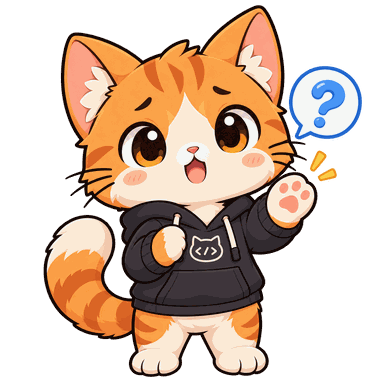
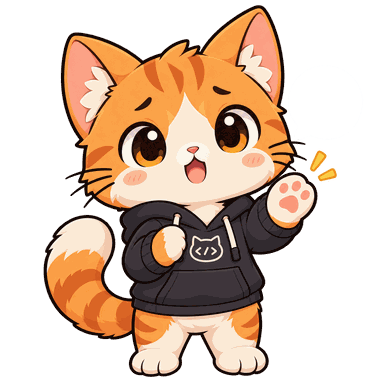
feat: 三个缺的状态不用新素材也能补上
你没额度生成新图了，我又不会生成图像——但缺的那几个里有三个根本不需要生成。

**问号从贴图里抠出来了。** `waiting.png` 里那个问号气泡是一个跟猫身完全不相连的
连通域（46095 像素），抠掉之后干净得没有一点残边。剩下的「举爪」姿势正好就是机器人
在这个状态的动作。于是：

- 符号改由宿主层画（`#mark`，跟灯和角标同一层）
- 「等你回答」画问号，「等你授权」画警告三角
- 一张图服务两个状态

这修的是一个真的错：之前两个状态共用同一张图，猫在请你批准 `rm -rf` 的时候顶着一个
问号——问号的意思是「我不确定」，授权的意思是「你来定」。机器人一直是分开画的（举手
vs 歪头加问号），猫这边之前做不到，是因为一张图在干两份活。

**工具被打断**同理：`working` 加宿主画的警告三角。机器人在这个状态也就是显示器转黄、
人继续干活，同一个语汇，不值得为一个 2.6 秒的瞬态单独生成一张图。用同一个三角形表示
「等授权」和「工具被打断」是跟机器人一致的——它的显示器在这两种情况下显示同一个警告，
靠**姿势**区分。

**刚干完一轮**没有贴图，而且不该有：它是 1.6 秒的瞬态，一张静止图说不出「刚刚」。
改成让渲染器把 `idle` 那张图弹一下——脚不动，头抬起约 2.9pt，0.12 秒到顶，1.2 秒
衰减干净。跟机器人的「点两下头」一个量级，故意做得小。

踩了一个 GLSL 的坑：`smoothstep(1.0, 0.25, p.y)` 在 GLSL ES 里 edge0 >= edge1 是
未定义行为，不报错，直接让整个弹跳变成零。改成 `1.0 - smoothstep(0.25, 1.0, p.y)`。
查这个花的时间比写它长——两次相隔 0.15 秒的快照像素级相同，一开始以为是分支没走到，
把系数改成常数 1.0 才确认分支是通的、问题在 smoothstep。

现在 11 个状态里 7 个有自己的表现（原来 5 个），剩下 4 个 busy 变体共用一张图但灯分得
开。真正还缺素材的就那四个。

**顺带：符号从此不用画进贴图。** 以后加一个状态多半只要加一个符号，不用重新生成整只
猫。这是这次最值钱的收获。

Changed region(s): [[0.75, 0.1562, 0.9688, 0.375]]

diff --git a/Sources/ClaudePetCore/PetSkin.swift b/Sources/ClaudePetCore/PetSkin.swift
@@ -37,9 +37,34 @@ public enum PetSkin: String, Sendable, Equatable, CaseIterable {
 /// place whichever skin is loaded. That is what keeps the cat honest: it loses
 /// poses, not signals, and the two states with no picture still say so.
 public enum CatSkin {
-    /// The five pictures the kit ships.
+    /// The five pictures the kit ships, plus one the renderer makes from an
+    /// existing picture.
     public enum Pose: String, Sendable, Equatable, CaseIterable {
         case idle, working, waiting, sleeping, urgent
+        /// The `idle` picture with a short bob, for the 1.6s after a turn ends.
+        /// Not a sixth texture — there is no artwork for a finished turn, and a
+        /// still picture cannot say "just now" anyway. See cat-pet.js.
+        case finished
+    }
+
+    /// A glyph the host draws beside the figure.
+    ///
+    /// These used to be painted into the textures, which is how the cat ended
+    /// up holding up a paw with a QUESTION MARK over it while asking for
+    /// permission to run `rm -rf` — a question mark means "I am unsure", and
+    /// approval means "you decide". The artwork could not tell them apart
+    /// because one picture was doing both jobs.
+    ///
+    /// Drawn by the host instead, so one "raised paw" picture serves both, and
+    /// so a new glyph never costs a new drawing of the whole cat.
+    public enum Mark: String, Sendable, Equatable, CaseIterable {
+        case none
+        /// It wants you to type something.
+        case question
+        /// It wants a decision, or a tool call came back interrupted. One glyph
+        /// for both, exactly as the robot does it — its monitor shows the same
+        /// warning in both cases, and the POSE is what tells them apart.
+        case warn
     }
 
     /// A lamp token, not a colour. `pet.css` owns the palette, so the robot's
@@ -58,10 +83,12 @@ public enum CatSkin {
     public struct Look: Sendable, Equatable {
         public let pose: Pose
         public let lamp: Lamp
+        public let mark: Mark
 
-        public init(pose: Pose, lamp: Lamp) {
+        public init(pose: Pose, lamp: Lamp, mark: Mark = .none) {
             self.pose = pose
             self.lamp = lamp
+            self.mark = mark
         }
     }
 
@@ -70,13 +97,41 @@ public enum CatSkin {
     ///   - phase: "compacting", "awaiting-agent", or empty.
     ///   - flash: "done", "trouble", or empty — a transient, not a state.
     ///   - wanted: something wants the user (the chest badge is non-empty).
+    ///   - blockedOn: what a waiting session is blocked on, empty when it is
+    ///     simply waiting for an answer. Only a PermissionRequest fills it in,
+    ///     which is what makes it the honest way to tell "decide this" from
+    ///     "answer me" — the alternative was reading English out of a
+    ///     notification message.
     public static func look(mood: String, phase: String, flash: String,
-                            wanted: Bool) -> Look {
-        Look(pose: pose(mood: mood, wanted: wanted),
-             lamp: lamp(mood: mood, phase: phase, flash: flash))
+                            wanted: Bool, blockedOn: String = "") -> Look {
+        Look(pose: pose(mood: mood, wanted: wanted, flash: flash),
+             lamp: lamp(mood: mood, phase: phase, flash: flash),
+             mark: mark(mood: mood, flash: flash, blockedOn: blockedOn))
     }
 
-    public static func pose(mood: String, wanted: Bool) -> Pose {
+    /// The pose a transient imposes, or nil to keep whatever is showing.
+    ///
+    /// A finished turn replaces the pose, because that IS the whole signal. An
+    /// interrupted tool must not: the session is still working, and swapping
+    /// the picture would say it stopped.
+    public static func flashPose(_ flash: String) -> Pose? {
+        flash == "done" ? .finished : nil
+    }
+
+    public static func mark(mood: String, flash: String, blockedOn: String) -> Mark {
+        // An interrupted call is a warning over a cat that is still working.
+        if flash == "trouble" { return .warn }
+        // `urgent` already has its own painted alarm, and a second glyph beside
+        // it would be two warnings for one thing.
+        guard mood == "waiting" else { return .none }
+        return blockedOn.isEmpty ? .question : .warn
+    }
+
+    public static func pose(mood: String, wanted: Bool, flash: String = "") -> Pose {
+        // A turn ending is a moment, not a state, and the artwork has no
+        // picture for it. The renderer bobs the idle picture instead — which
+        // beats the alternative, which was nothing at all.
+        if flash == "done" { return .finished }
         switch mood {
         case "busy": return .working
         case "waiting", "urgent": return mood == "urgent" ? .urgent : .waiting

diff --git a/Sources/ClaudePetTests/Runner.swift b/Sources/ClaudePetTests/Runner.swift
@@ -1484,8 +1484,9 @@ struct Runner {
         t.check("a known one is kept", PetSkin.named("cat") == .cat)
 
         func look(_ mood: String, phase: String = "", flash: String = "",
-                  wanted: Bool = false) -> CatSkin.Look {
-            CatSkin.look(mood: mood, phase: phase, flash: flash, wanted: wanted)
+                  wanted: Bool = false, blockedOn: String = "") -> CatSkin.Look {
+            CatSkin.look(mood: mood, phase: phase, flash: flash, wanted: wanted,
+                         blockedOn: blockedOn)
         }
         // The pose is lossy on purpose — three busy poses, compaction and
         // waiting on an agent are one picture — so what is asserted here is that
@@ -1504,7 +1505,30 @@ struct Runner {
                 look("busy", phase: "awaiting-agent").lamp == .awaiting)
 
         t.check("wanting approval and wanting an answer share the one picture",
-                look("waiting").pose == .waiting)
+                look("waiting").pose == .waiting
+                    && look("waiting", blockedOn: "rm -rf build/").pose == .waiting)
+        // The bug this replaced: one texture with a question mark painted into
+        // it served both, so the cat held up a paw under a QUESTION MARK while
+        // asking permission to run `rm -rf`. A question mark says "I am
+        // unsure"; approval says "you decide".
+        t.check("...and the glyph is what tells them apart",
+                look("waiting").mark == .question
+                    && look("waiting", blockedOn: "rm -rf build/").mark == .warn)
+        t.check("a session that wants nothing shows no glyph",
+                look("busy").mark == .none && look("idle").mark == .none)
+        // urgent already has an alarm painted into its own texture; a second
+        // glyph beside it would be two warnings for one thing.
+        t.check("being ignored does not add a second warning",
+                look("urgent", blockedOn: "rm -rf build/").mark == .none)
+        t.check("an interrupted tool warns over a cat that is still working",
+                look("busy", flash: "trouble").mark == .warn
+                    && look("busy", flash: "trouble").pose == .working)
+        // A finished turn has no picture, so the renderer bobs the idle one.
+        // Nothing else may replace the pose: an interrupted tool happens while
+        // the session carries on, and swapping the picture would say it stopped.
+        t.check("a finished turn gets the bob", look("idle", flash: "done").pose == .finished)
+        t.check("and nothing else does",
+                CatSkin.flashPose("done") == .finished && CatSkin.flashPose("trouble") == nil)
         t.check("being ignored has its own", look("urgent").pose == .urgent)
         t.check("urgent's lamp outranks waiting's",
                 look("urgent").lamp == .urgent && look("waiting").lamp == .waiting)

diff --git a/Resources/pet/skins/cat/cat-pet.js b/Resources/pet/skins/cat/cat-pet.js
@@ -28,10 +28,24 @@ void main(){
  }else if(state<3.5){
   d.y-=.008*sin(t*1.45)*weight(p,vec2(.49,.53),vec2(.47,.54));
   d.x+=.005*sin(t*1.1)*weight(p,vec2(.79,.77),vec2(.19,.20));
- }else{
+ }else if(state<4.5){
   float burst=pow(max(0.0,sin(t*1.8)),3.0);
   d.x+=.004*sin(t*24.0)*burst*weight(p,vec2(.52,.45),vec2(.65,.70));
   d.y-=.006*sin(t*5.0)*weight(p,vec2(.725,.53),vec2(.10,.11));
+ }else{
+  // finished: one short bob on the idle picture, anchored at the feet and
+  // decaying to nothing. There is no artwork for a finished turn, and a still
+  // picture could not say "just now" even if there were — what carries this
+  // state is that it MOVES and then stops. setState resets time, so t is
+  // seconds since the turn ended.
+  float k=exp(-t*1.9)*sin(t*12.0);
+  // 1.0 - smoothstep(lo,hi,..), not smoothstep(hi,lo,..): GLSL ES leaves
+  // smoothstep undefined when edge0 >= edge1, and the reversed form
+  // silently produced a bob of exactly zero — two renders 0.15s apart
+  // came out pixel-identical.
+  float lift=1.0-smoothstep(0.25,1.0,p.y);
+  d.y-=.035*k*lift;
+  d.x+=.005*k*weight(p,vec2(.5,.3),vec2(.45,.35));
  }
  p+=d*strength;
  // Common 6% safety margin, invariant ground anchor.
@@ -40,7 +54,9 @@ void main(){
 }`;
 const FRAG=`precision mediump float; varying vec2 uv; uniform sampler2D texture0;
 void main(){ gl_FragColor=texture2D(texture0,uv); }`;
-const states={idle:0,working:1,waiting:2,sleeping:3,urgent:4};
+const states={idle:0,working:1,waiting:2,sleeping:3,urgent:4,finished:5};
+// `finished` is a deformation of an existing picture, not a picture of its own.
+const textureFor={finished:'idle'};
 class CatPet{
  constructor(canvas, assets, options={}){
   this.canvas=canvas; this.assets=assets; this.state='idle'; this.strength=1;
@@ -89,9 +105,10 @@ class CatPet{
  setReducedMotion(value){this.reduced=!!value;this.draw();return this;}
  setStrength(value){const n=Number(value);this.strength=Number.isFinite(n)?Math.max(0,Math.min(1.5,n)):1;this.draw();return this;}
  draw(){
-  if(this.disposed||!this.textures[this.state])return;
+  const key=textureFor[this.state]||this.state;
+  if(this.disposed||!this.textures[key])return;
   const gl=this.gl;gl.viewport(0,0,this.canvas.width,this.canvas.height);gl.clear(gl.COLOR_BUFFER_BIT);
-  gl.useProgram(this.program);gl.bindTexture(gl.TEXTURE_2D,this.textures[this.state]);
+  gl.useProgram(this.program);gl.bindTexture(gl.TEXTURE_2D,this.textures[key]);
   gl.uniform1f(this.u.time,this.time);gl.uniform1f(this.u.strength,this.reduced?0:this.strength);
   gl.uniform1f(this.u.state,states[this.state]);gl.drawArrays(gl.TRIANGLES,0,this.count);
  }

diff --git a/Resources/pet/pet.js b/Resources/pet/pet.js
@@ -542,17 +542,22 @@ let flashTimer = null;
  *
  * @param {"done"|"trouble"} kind
  */
-window.flash = function (kind, lamp) {
+window.flash = function (kind, lamp, pose, mark) {
   if (flashTimer) clearTimeout(flashTimer);
   pet.dataset.flash = kind;
-  // For a skin with no picture for this, the lamp is the whole of the signal —
-  // so the transient overrides the steady lamp and puts it back afterwards
-  // rather than being lost.
+  // A skin with no picture for this has only the lamp and the glyph, so the
+  // transient overrides both and puts the steady pair back afterwards rather
+  // than letting them be lost. An empty `pose` means "keep the one you have":
+  // an interrupted tool happens while the session carries on working.
   if (lamp) setLamp(lamp);
+  if (mark) setMark(mark);
+  if (pose) setPose(pose);
   flashTimer = setTimeout(function () {
     delete pet.dataset.flash;
     flashTimer = null;
     setLamp(steadyLamp);
+    setMark(steadyMark);
+    setPose(steadyPose);
   }, kind === "trouble" ? 2600 : 1600);
 };
 
@@ -642,11 +647,22 @@ window.setHoverAt = function (x, y) {
 
 /** The live CatPet renderer, or null while the robot is showing. */
 let cat = null;
-/** The lamp the current state calls for, as opposed to a transient flash. */
+/** What the current STATE calls for, as opposed to a transient flash. */
 let steadyLamp = "off";
+let steadyMark = "none";
+let steadyPose = "idle";
 
 function setLamp(token) {
   document.getElementById("lamp").dataset.lamp = token || "off";
+}
+
+function setMark(token) {
+  document.getElementById("mark").dataset.mark = token || "none";
+}
+
+function setPose(pose) {
+  lastPose = pose || "idle";
+  if (cat) cat.setState(lastPose);
 }
 
 /**
@@ -688,11 +704,17 @@ let lastPose = "idle";
  * Called from Swift on every render. The pose may be one of five; the lamp
  * carries everything the five pictures cannot.
  */
-window.setCatLook = function (pose, lamp) {
-  lastPose = pose || "idle";
+window.setCatLook = function (pose, lamp, mark) {
+  steadyPose = pose || "idle";
   steadyLamp = lamp || "off";
-  if (!flashTimer) setLamp(steadyLamp);
-  if (cat) cat.setState(lastPose);
+  steadyMark = mark || "none";
+  // A flash in progress owns all three; it restores these when it ends. Without
+  // this guard a state push arriving mid-flash would cut the "done" bob short —
+  // and one of those arrives on every tick.
+  if (flashTimer) return;
+  setLamp(steadyLamp);
+  setMark(steadyMark);
+  setPose(steadyPose);
 };
 
 /**

diff --git a/Sources/ClaudePet/AppMain.swift b/Sources/ClaudePet/AppMain.swift
@@ -254,7 +254,8 @@ final class PetAppDelegate: NSObject, NSApplicationDelegate {
         bridge?.setCatLook(CatSkin.look(mood: state.mood.rawValue,
                                         phase: StateAggregator.phase(state.sessions),
                                         flash: "",
-                                        wanted: !badge.isEmpty))
+                                        wanted: !badge.isEmpty,
+                                        blockedOn: state.waitingOn))
         // A "done" line has no timer, so something has to retire it. Going back
         // to work is that something: once a session is busy again, the user has
         // plainly seen the news or stopped caring about it.
@@ -759,7 +760,8 @@ final class PetAppDelegate: NSObject, NSApplicationDelegate {
         // the skin too. Without this the cat sat in one pose through all twelve
         // captions while the captions claimed otherwise.
         bridge?.setCatLook(CatSkin.look(mood: step.mood.rawValue, phase: step.phase,
-                                        flash: "", wanted: !badge.isEmpty))
+                                        flash: "", wanted: !badge.isEmpty,
+                                        blockedOn: step.waitingOn))
         if !step.flash.isEmpty { bridge?.flash(step.flash) }
         // The caption says both what is being shown AND that it is not real.
         // A demo that looks like live state is a demo that gets acted on.

diff --git a/Resources/pet/pet.css b/Resources/pet/pet.css
@@ -91,6 +91,28 @@ html, body {
 }
 #count[hidden] { display: none; }
 
+/* Where the artwork used to paint its question mark: right of the head, above
+   the raised paw. Kept in that exact spot so the pose still reads as pointing
+   at it. 20x20 inside the 120pt box, measured off the original texture. */
+#mark {
+  position: absolute; right: 13px; top: 25px; width: 20px; height: 20px;
+  display: grid; place-items: center;
+  color: #fdf3ec; font: 700 13px/1 -apple-system, system-ui, sans-serif;
+}
+#mark[data-mark="none"] { display: none; }
+/* "Answer me": a question, so a question mark, on the amber that already means
+   "it wants you". */
+#mark[data-mark="question"] { background: #e0a63c; border-radius: 50%; }
+#mark[data-mark="question"]::after { content: "?"; }
+/* "Decide this", and also "that call came back interrupted". One glyph for two
+   situations, exactly as the robot does it — its monitor shows the same warning
+   for both, and the pose is what tells them apart. */
+#mark[data-mark="warn"] {
+  background: #e0a63c;
+  clip-path: polygon(50% 4%, 96% 92%, 4% 92%);
+}
+#mark[data-mark="warn"]::after { content: "!"; color: #3a2f22; padding-top: 5px; }
+
 /* The robot's `pulse` dips to 0.25, which is fine for a bulb on an antenna and
    too faint for a 15px dot — a snapshot of the urgent state caught it at the
    trough and the lamp had all but vanished. Same rhythm, higher floor. */

diff --git a/Sources/ClaudePet/WebBridge.swift b/Sources/ClaudePet/WebBridge.swift
@@ -206,7 +206,13 @@ final class WebBridge {
     func flash(_ kind: String) {
         guard isReady else { return }
         let lamp = CatSkin.lamp(mood: "", phase: "", flash: kind).rawValue
-        evaluate("window.flash(\(jsString(kind)), \(jsString(lamp)));")
+        let mark = CatSkin.mark(mood: "", flash: kind, blockedOn: "").rawValue
+        // Empty means "keep the pose you have": an interrupted tool happens
+        // while the session carries on working, and replacing the picture would
+        // say it stopped.
+        let pose = CatSkin.flashPose(kind)?.rawValue ?? ""
+        evaluate("window.flash(\(jsString(kind)), \(jsString(lamp)), "
+            + "\(jsString(pose)), \(jsString(mark)));")
     }
 
     private var lastSkin: PetSkin?
@@ -223,7 +229,7 @@ final class WebBridge {
         guard isReady, look != lastLook else { return }
         lastLook = look
         evaluate("window.setCatLook(\(jsString(look.pose.rawValue)), "
-            + "\(jsString(look.lamp.rawValue)));")
+            + "\(jsString(look.lamp.rawValue)), \(jsString(look.mark.rawValue)));")
     }
 
     private var lastPhase: String?

diff --git a/Sources/ClaudePet/SkinProbe.swift b/Sources/ClaudePet/SkinProbe.swift
@@ -54,9 +54,13 @@ enum SkinProbe {
         retained = (handler, window, webView)
 
         after(2.5) {
-            webView.evaluateJavaScript(script.isEmpty ? "null" : script) { _, error in
+            webView.evaluateJavaScript(script.isEmpty ? "null" : script) { result, error in
                 MainActor.assumeIsolated {
                     if let error { print("script failed: \(error.localizedDescription)") }
+                    // Printed so the script can answer questions as well as set
+                    // things up. Without this the only way to find out why a
+                    // render looked wrong was to guess and re-render.
+                    if let result, !(result is NSNull) { print("\(result)") }
                     // Textures load asynchronously; a snapshot taken the instant
                     // the script returns catches the frame before the first one
                     // arrived, which looks exactly like a skin that is broken.

diff --git a/Resources/pet/index.html b/Resources/pet/index.html
@@ -121,6 +121,10 @@
   <div id="signals" aria-hidden="true">
     <span id="lamp" data-lamp="off"></span>
     <span id="count" hidden>0</span>
+    <!-- The glyph that used to be painted into the waiting texture. Drawn here
+         so one "raised paw" picture can mean both "answer me" and "decide
+         this" — which it could not while the artwork held a question mark. -->
+    <span id="mark" data-mark="none"></span>
   </div>
   </div>
   <div id="panel" hidden></div>
